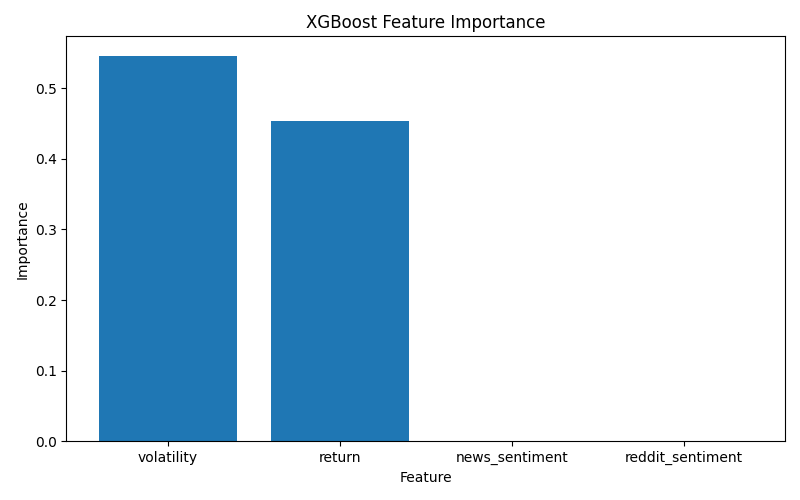
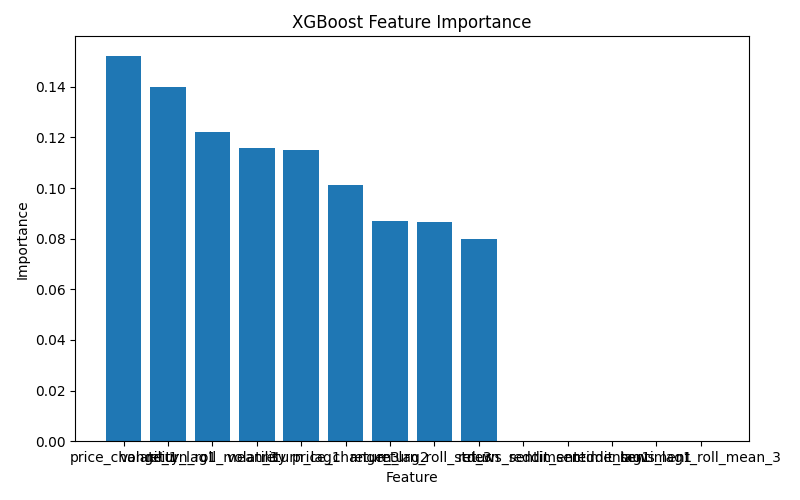
feat: add time-series feature engineering with lag, rolling, and momentum features for market prediction model

diff --git a/processing/feature_engineering.py b/processing/feature_engineering.py
@@ -1,16 +1,46 @@
 import pandas as pd
 
-def add_stock_features(df):
+
+def add_time_series_features(df):
     df = df.copy()
 
-    # Returns
-    df["return"] = df["Close"].pct_change()
+    # ---------------------------
+    # LAG FEATURES
+    # ---------------------------
+    df["return_lag1"] = df["return"].shift(1)
+    df["return_lag2"] = df["return"].shift(2)
 
-    # Moving averages
-    df["ma_5"] = df["Close"].rolling(5).mean()
-    df["ma_10"] = df["Close"].rolling(10).mean()
+    df["volatility_lag1"] = df["volatility"].shift(1)
 
-    # Volatility
-    df["volatility"] = df["return"].rolling(10).std()
+    df["reddit_lag1"] = df["reddit_sentiment"].shift(1)
+    df["news_lag1"] = df["news_sentiment"].shift(1)
+
+    # ---------------------------
+    # ROLLING FEATURES
+    # ---------------------------
+    df["return_roll_mean_3"] = df["return"].rolling(3).mean()
+    df["return_roll_std_3"] = df["return"].rolling(3).std()
+
+    df["sentiment_roll_mean_3"] = (
+        df[["news_sentiment", "reddit_sentiment"]]
+        .mean(axis=1)
+        .rolling(3)
+        .mean()
+    )
+
+    # ---------------------------
+    # PRICE MOMENTUM
+    # ---------------------------
+    df["price_change_1"] = df["Close"].pct_change(1)
+    df["price_change_3"] = df["Close"].pct_change(3)
+
+    # ---------------------------
+    # CLEAN
+    # ---------------------------
+    df = df.dropna().reset_index(drop=True)
 
     return df
+
+
+if __name__ == "__main__":
+    print("Feature engineering module ready.")

diff --git a/models/train_model.py b/models/train_model.py
@@ -11,6 +11,7 @@ from ingestion.reddit_data import fetch_reddit
 
 from processing.dataset_builder import build_dataset
 from processing.labeling import create_labels
+from processing.feature_engineering import add_time_series_features
 
 
 # -----------------------------------
@@ -26,6 +27,7 @@ reddit_df = fetch_reddit()
 # -----------------------------------
 
 df = build_dataset(stock_df, news_df, reddit_df)
+df = add_time_series_features(df)
 
 # -----------------------------------
 # CREATE LABELS
@@ -41,7 +43,22 @@ FEATURES = [
     "return",
     "volatility",
     "news_sentiment",
-    "reddit_sentiment"
+    "reddit_sentiment",
+
+    "return_lag1",
+    "return_lag2",
+    "volatility_lag1",
+
+    "reddit_lag1",
+    "news_lag1",
+
+    "return_roll_mean_3",
+    "return_roll_std_3",
+
+    "sentiment_roll_mean_3",
+
+    "price_change_1",
+    "price_change_3"
 ]
 
 TARGET = "label"

diff --git a/models/train_xgboost.py b/models/train_xgboost.py
@@ -18,6 +18,7 @@ from ingestion.reddit_data import fetch_reddit
 
 from processing.dataset_builder import build_dataset
 from processing.labeling import create_labels
+from processing.feature_engineering import add_time_series_features
 
 
 # -----------------------------------
@@ -33,6 +34,7 @@ reddit_df = fetch_reddit()
 # -----------------------------------
 
 df = build_dataset(stock_df, news_df, reddit_df)
+df = add_time_series_features(df)
 
 # -----------------------------------
 # CREATE LABELS
@@ -48,7 +50,22 @@ FEATURES = [
     "return",
     "volatility",
     "news_sentiment",
-    "reddit_sentiment"
+    "reddit_sentiment",
+
+    "return_lag1",
+    "return_lag2",
+    "volatility_lag1",
+
+    "reddit_lag1",
+    "news_lag1",
+
+    "return_roll_mean_3",
+    "return_roll_std_3",
+
+    "sentiment_roll_mean_3",
+
+    "price_change_1",
+    "price_change_3"
 ]
 
 TARGET = "label"